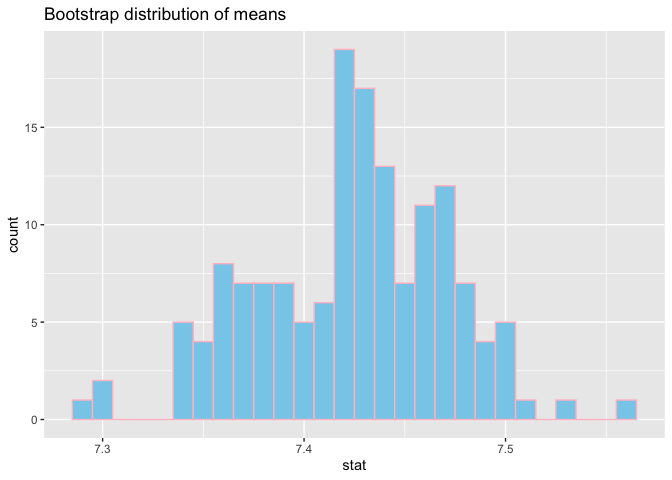
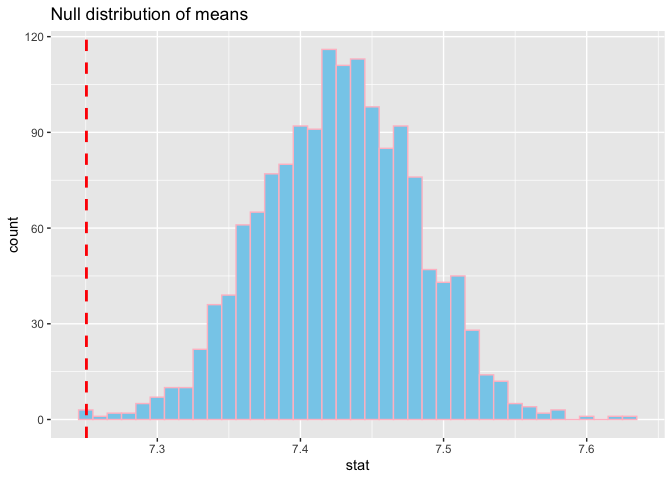
knitted!

diff --git a/lab-12.md b/lab-12.md
@@ -87,20 +87,21 @@ other.
 ### Exercise 4
 
 ``` r
+set.seed(1234)
 bootstrap <- ncbirths_white %>%
   specify(response = weight) %>%
-  generate(reps = 150, type = "bootstrap") %>%
+  generate(reps = 1500, type = "bootstrap") %>%
   calculate(stat = "mean")
 summary(bootstrap)
 ```
 
     ##    replicate           stat      
-    ##  Min.   :  1.00   Min.   :7.114  
-    ##  1st Qu.: 38.25   1st Qu.:7.210  
-    ##  Median : 75.50   Median :7.248  
-    ##  Mean   : 75.50   Mean   :7.244  
-    ##  3rd Qu.:112.75   3rd Qu.:7.279  
-    ##  Max.   :150.00   Max.   :7.380
+    ##  Min.   :   1.0   Min.   :7.069  
+    ##  1st Qu.: 375.8   1st Qu.:7.210  
+    ##  Median : 750.5   Median :7.248  
+    ##  Mean   : 750.5   Mean   :7.248  
+    ##  3rd Qu.:1125.2   3rd Qu.:7.285  
+    ##  Max.   :1500.0   Max.   :7.454
 
 ``` r
 obs_mean <- mean(ncbirths_white$weight)
@@ -114,12 +115,224 @@ p_value <- centered_dist %>%
     ) %>%
   pull(p_val)
 
+bootstrap %>% 
+  summarize(lower = quantile(stat, .025),
+            uppter = quantile(stat, .975))
+```
+
+    ## # A tibble: 1 × 2
+    ##   lower uppter
+    ##   <dbl>  <dbl>
+    ## 1  7.14   7.35
+
+``` r
 ##Plot
 ggplot(data = centered_dist, mapping = aes(x = stat)) +
   geom_histogram(binwidth = .01, fill = "skyblue", color = "pink") +
-  labs(title = "Bootstrap distribution of means")
+  geom_vline(xintercept = obs_mean, color = "red", linetype = "dashed", size = 1) +
+  labs(title = "Null distribution of means")
 ```
+
+    ## Warning: Using `size` aesthetic for lines was deprecated in ggplot2 3.4.0.
+    ## ℹ Please use `linewidth` instead.
+    ## This warning is displayed once every 8 hours.
+    ## Call `lifecycle::last_lifecycle_warnings()` to see where this warning was
+    ## generated.
 
 ![](lab-12_files/figure-gfm/bootstrap-1.png)<!-- -->
 
-The null hypothesis: H0: u = 7.43 Alternative hypothesis: H1: u ≠ 7.43
+The null hypothesis: H0: u = 7.43; Alternative hypothesis: H1: u ≠ 7.43
+
+According to the table, there is no sample with a mean less than 7.25.
+According to the output, the observed mean birth weight of babies born
+to White mothers in the sample was 7.25 pounds. To test the hypothesis,
+we generated 150 bootstrap samples of the data. The resulting p-value
+was .002, which suggests we can reject the null hypothesis and conclude
+that the observed value is significantly lower than the historical
+weight of 7.43 pounds.
+
+### Exercise 5
+
+``` r
+ggplot(data = ncbirths, aes(x = habit, y = weight)) +
+  geom_boxplot(fill = "pink") +
+  labs(title = "Baby Weight by Mother's Smoking Habit",
+       x = "Mother's Smoking Habit",
+       y = "Baby Weight (lbs)")
+```
+
+![](lab-12_files/figure-gfm/habit%20and%20weight-1.png)<!-- -->
+
+Based on the graph, we can assume that mother who smoke tends to have a
+lighter baby weight, although we do not know if the difference is
+statistically significant (since there are a lot of observed outliers in
+the nonsmoker group).
+
+### Exercise 6
+
+``` r
+ncbirths_clean <- ncbirths %>%
+  filter(!is.na(habit) & !is.na(weight))
+```
+
+### Exercise 7
+
+``` r
+ncbirths_clean %>%
+  group_by(habit) %>%
+  summarize(mean_weight = mean(weight))
+```
+
+    ## # A tibble: 2 × 2
+    ##   habit     mean_weight
+    ##   <fct>           <dbl>
+    ## 1 nonsmoker        7.14
+    ## 2 smoker           6.83
+
+### Exercise 8
+
+H0: the weight of the infant whose mother is smoker = the weight of the
+infant whose mother does not smoke (μ1 = μ2)
+
+H1: the weight of the infant whose mother is smoker ≠ the weight of the
+infant whose mother does not smoke (μ1 ≠ μ2)
+
+### Exercise 9
+
+``` r
+t.test(weight ~ habit, data = ncbirths_clean)
+```
+
+    ## 
+    ##  Welch Two Sample t-test
+    ## 
+    ## data:  weight by habit
+    ## t = 2.359, df = 171.32, p-value = 0.01945
+    ## alternative hypothesis: true difference in means between group nonsmoker and group smoker is not equal to 0
+    ## 95 percent confidence interval:
+    ##  0.05151165 0.57957328
+    ## sample estimates:
+    ## mean in group nonsmoker    mean in group smoker 
+    ##                7.144273                6.828730
+
+according to the output, p = .02, which is statistically significant at
+the .05 significance level. Therefore, it can be conclude that the
+average weight of infants whose mother is not smoker is significantly
+heavier than the average weight of infants whose mother is smoker.
+Additionally, we are 95% confident that the true difference in means
+between non-smoker and smoker mother is between about 0.05 and 0.58
+pounds.
+
+### Exercise 10
+
+``` r
+set.seed(1234)
+bootstrap_clean <- ncbirths_clean %>%
+  specify(weight ~ habit) %>%
+  generate(reps = 1500, type = "bootstrap") %>%
+  calculate(stat = "diff in means", order = c("nonsmoker", "smoker"))
+bootstrap_clean %>%
+  get_confidence_interval(level = 0.95, type = "percentile")
+```
+
+    ## # A tibble: 1 × 2
+    ##   lower_ci upper_ci
+    ##      <dbl>    <dbl>
+    ## 1   0.0640    0.575
+
+The bootstrapping showed a slightly different value for CI than the
+sample, but it still indicates a statistically significant difference
+between the two groups.
+
+### Exercise 11
+
+``` r
+ncbirths %>%
+  summarise(
+    min = min(mage, na.rm = TRUE),
+    q1 = quantile(mage, 0.25, na.rm = TRUE),
+    median = median(mage, na.rm = TRUE),
+    mean = mean(mage, na.rm = TRUE),
+    q3 = quantile(mage, 0.75, na.rm = TRUE),
+    max = max(mage, na.rm = TRUE),
+    sd = sd(mage, na.rm = TRUE)
+  )
+```
+
+    ## # A tibble: 1 × 7
+    ##     min    q1 median  mean    q3   max    sd
+    ##   <int> <dbl>  <dbl> <dbl> <dbl> <int> <dbl>
+    ## 1    13    22     27    27    32    50  6.21
+
+I looked at the max, min, and mean of mother’s age, and decided to set
+the cutoff for younger and mature mother at the age of 27, which is the
+mean and median (lucky they are the same number).
+
+### Exercise 12
+
+H0: the proportion of low birth weight babies is the same for mature
+mothers and younger mother (μ1 = μ2);
+
+H1: the proportion of low birth weight babies is significantly higher
+for mature mothers than younger mother (μ1 \> μ2)
+
+``` r
+set.seed(1234)
+ncbirths_lowbirth <- ncbirths %>%
+  mutate(lowbirthweight = if_else(lowbirthweight == "low", 1, 0)) %>%
+  mutate(age_group = if_else(mage < 27, "younger", "older"))
+
+## This would tell me the observed difference in low birthweight proportions
+obs_diff <- ncbirths_lowbirth %>%
+  group_by(age_group) %>%
+  summarise(prop_low = mean(lowbirthweight), .groups = "drop") %>%
+  pivot_wider(names_from = age_group, values_from = prop_low) %>%
+  mutate(diff = older - younger) %>%
+  pull(diff)
+
+## The test
+ncbirths_lowbirth <- ncbirths_lowbirth %>%
+  mutate(lowbirthweight_str = as.character(lowbirthweight))
+
+lowbirthboot <- ncbirths_lowbirth %>%
+  specify(lowbirthweight_str ~ age_group, success = "1") %>%
+  hypothesize(null = "independence") %>%
+  generate(reps = 1500, type = "permute") %>%
+  calculate(stat = "diff in props", order = c("younger", "older"))
+
+# One-sided p-value from GPT 
+p_value <- lowbirthboot %>%
+  get_p_value(obs_stat = obs_diff, direction = "right")
+
+p_value
+```
+
+    ## # A tibble: 1 × 1
+    ##   p_value
+    ##     <dbl>
+    ## 1   0.412
+
+Based on the results, a p-value of .41 is found, which is larger than
+the significance level of 0.05. Therefore, we failed to reject the null
+hypothesis, which indicates that there is no statistically significance
+between the proportion of low birth weight babies from older mothers (27
+and above) and among younger mothers.
+
+### Exercise 13
+
+``` r
+ci <- lowbirthboot %>%
+  get_confidence_interval(level = 0.95, type = "percentile")
+
+ci
+```
+
+    ## # A tibble: 1 × 2
+    ##   lower_ci upper_ci
+    ##      <dbl>    <dbl>
+    ## 1  -0.0402   0.0398
+
+Based on 1500 bootstrap samples, the 95% CI is (-.04, 0.04).Since the
+interval includes 0, we can conclude that there no statistically
+significant difference in low birth weight rates between the two age
+groups of mothers.
